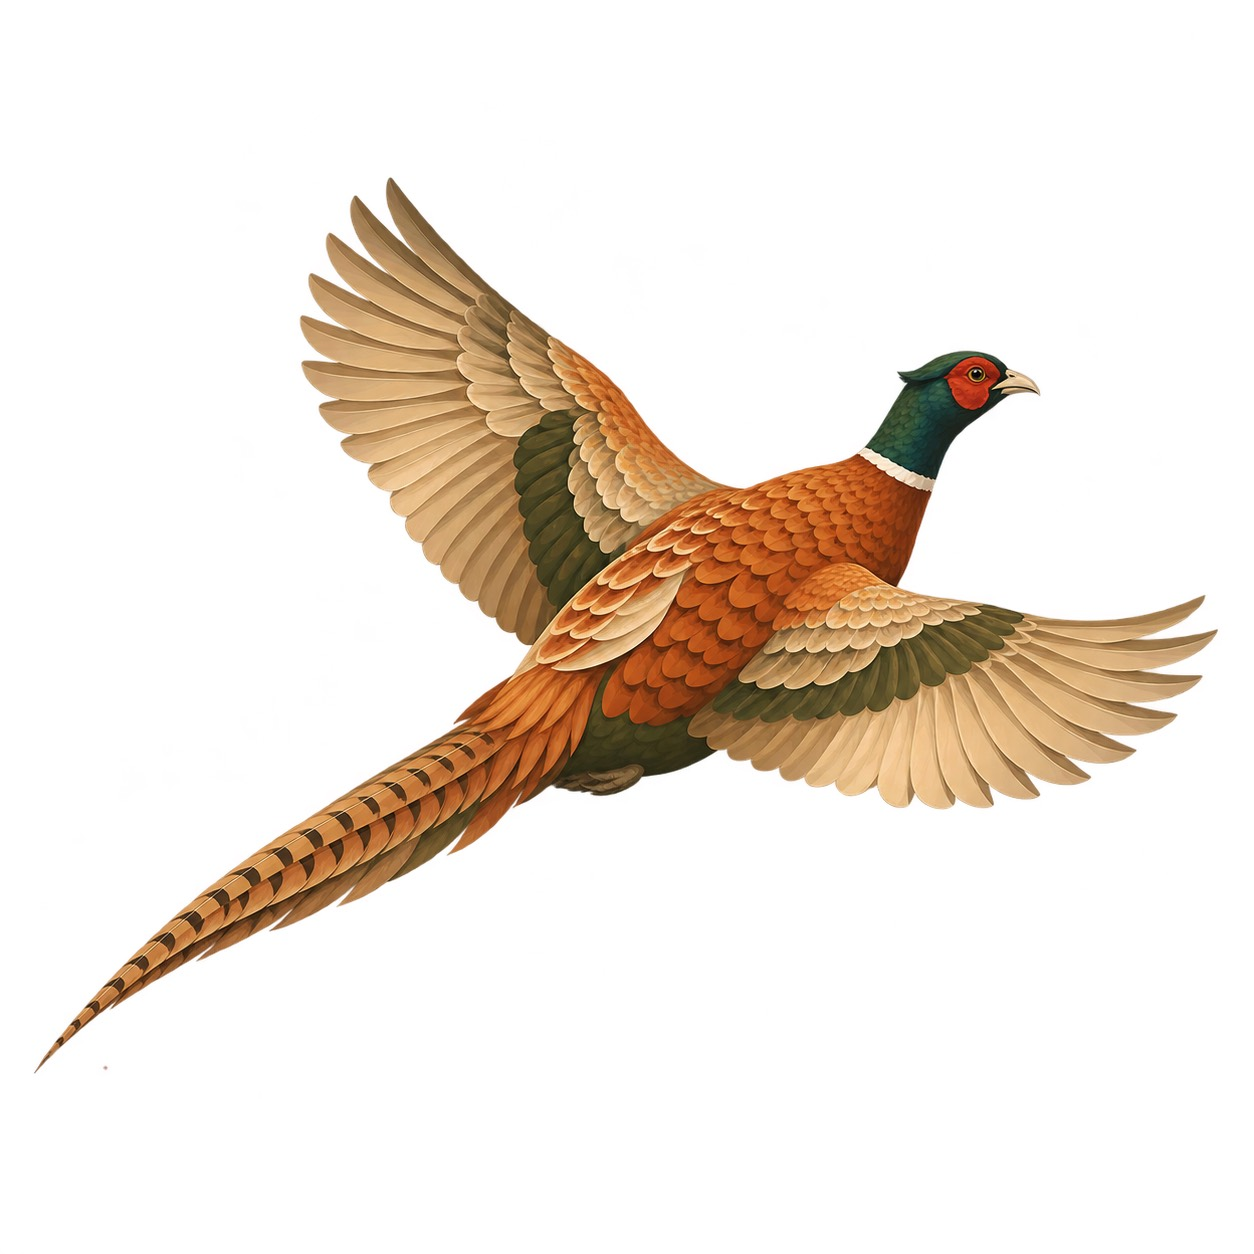
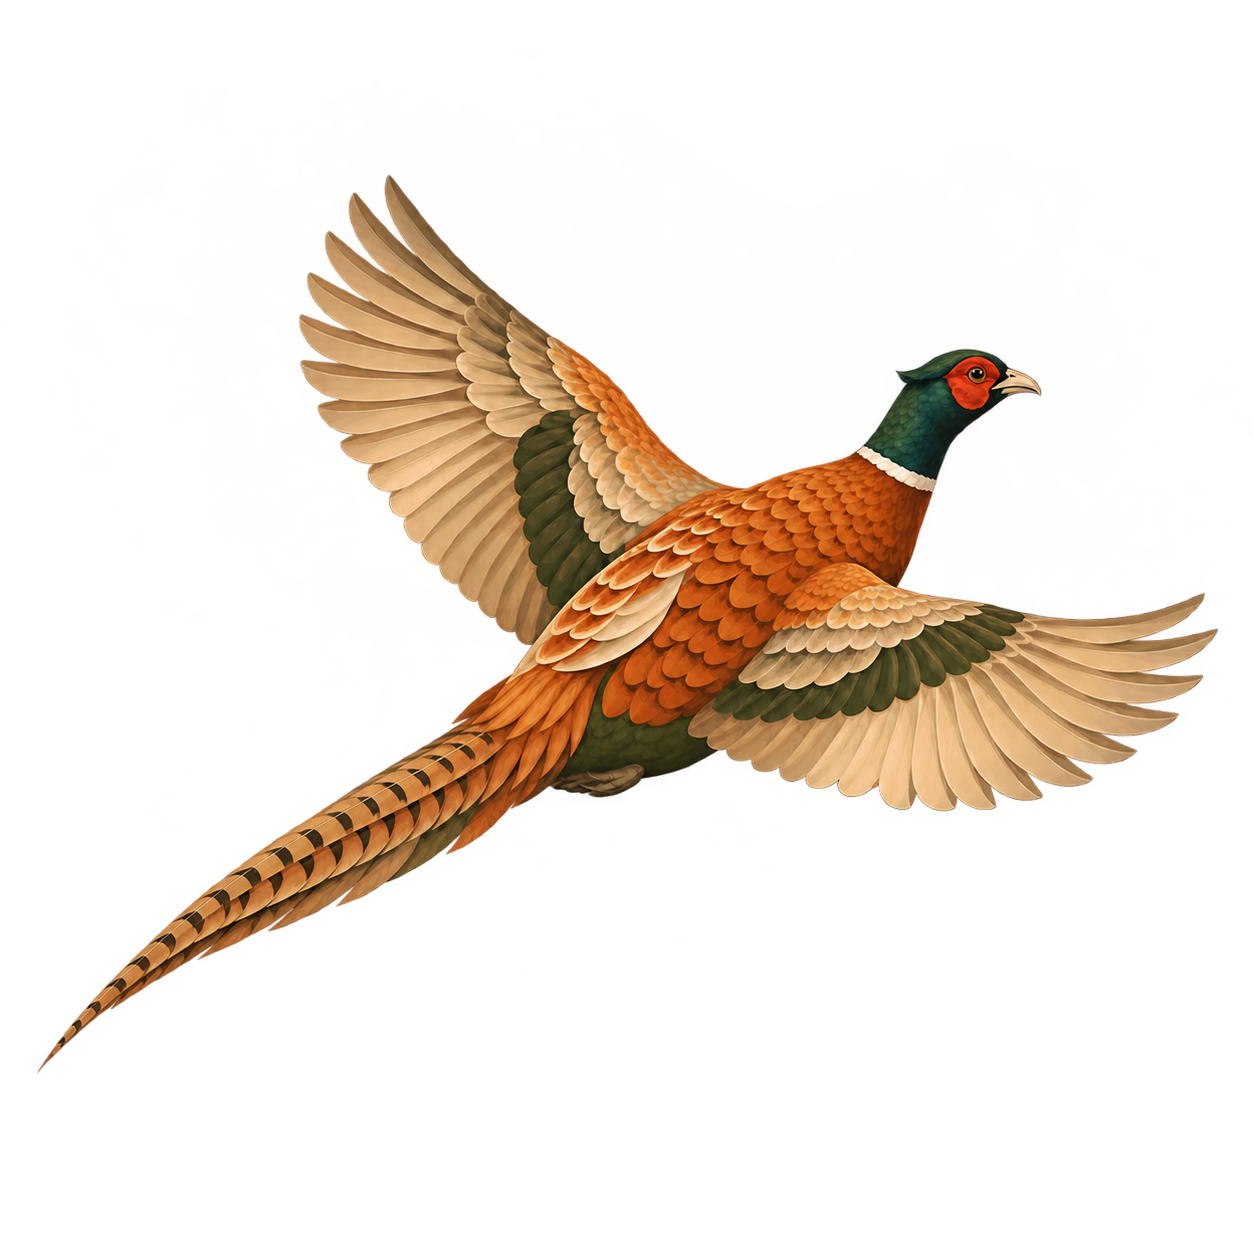
fix: make pheasant reference background transparent

diff --git a/ui/src/components/PheasantMark.tsx b/ui/src/components/PheasantMark.tsx
@@ -1,10 +1,12 @@
 /**
  * The pheasant wordmark.
  *
- * The full-colour illustration keeps the reference image's white background
- * and does not inherit `currentColor`. It is served from `public/`, which is
- * also where the favicon link in `index.html` points, so the tab icon and the
- * in-app mark use the same artwork.
+ * The artwork is a full-colour illustration rather than a monochrome glyph, so
+ * unlike the letter tile it replaced it does not inherit `currentColor` and the
+ * surface behind it stays transparent — the same asset reads correctly on the
+ * light and dark bar and on the browser's own tab strip. It is served from
+ * `public/`, which is also where the favicon link in `index.html` points, so
+ * the tab icon and the in-app mark can never drift apart.
  */
 export function PheasantMark({ size = 30 }: { size?: number }) {
   return (
